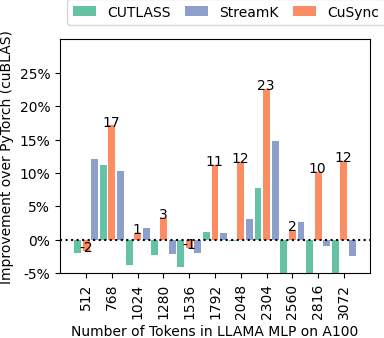
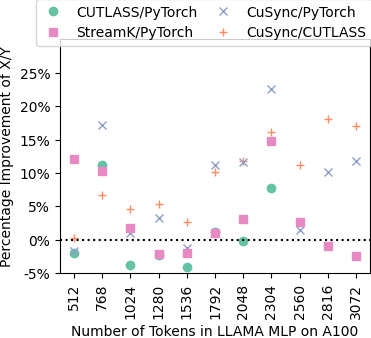
graph updates

diff --git a/src/ml-bench/plots/plotGPT.py b/src/ml-bench/plots/plotGPT.py
@@ -129,7 +129,7 @@ if __name__ == "__main__":
     # secFactor = 1e3 if (secs == "ms") else 1e6
     torchT = np.array(torchT)
     baseline = np.array(baseline)
-    ind = np.arange(len(baseline)) * 3
+    ind = np.arange(len(baseline))
     matmul1 = np.array(matmul1)
     matmul2 = np.array(matmul2)
     softmax = np.array(softmax)
@@ -142,11 +142,11 @@ if __name__ == "__main__":
     analyticalOverlapTimes = np.array(analyticalOverlapTimes)
 
     cutlassSpeedup = (torchT - baseline)/torchT*100
-    rowSpeedup = (torchT - rowOverlap)/torchT*100
-    tileSpeedup = (torchT - tileOverlap)/torchT*100
+    cusync = np.minimum(rowOverlap, tileOverlap)
+    cusyncSpeedup = (torchT - cusync)/torchT*100
+    cusyncOverCUTLASS = (baseline - cusync)/baseline*100 
     streamKSpeedup = (torchT - streamK)/torchT*100
     
-    print(streamKSpeedup)
     # for i in range(len(rowSpeedup)):
     #     if rowSpeedup[i] < -2:
     #         rowSpeedup[i]= -2
@@ -155,17 +155,17 @@ if __name__ == "__main__":
     #     if tileSpeedup[i] < 0:
     #         tileSpeedup[i] = 2
     
-    cusyncSpeedup = np.maximum(rowSpeedup, tileSpeedup)
-
+    
     # print(rowSpeedup)
     # print(tileSpeedup)
     # print(streamKSpeedup)
 
     # analyticalSpeedup = baseline/analyticalOverlapTimes
     fig, ax2 = plt.subplots(1,1,sharex=True)
-    p0 = ax2.bar(ind, cutlassSpeedup, color=colors[0])
-    p1 = ax2.bar(ind+1, cusyncSpeedup,color=colors[1])
-    p2 = ax2.bar(ind+2, streamKSpeedup,color=colors[2])
+    p0 = ax2.plot(ind, cutlassSpeedup, 'o', color=colors[0])
+    p1 = ax2.plot(ind, cusyncOverCUTLASS, '+', color=colors[1])
+    p2 = ax2.plot(ind, cusyncSpeedup, 'x', color=colors[2])
+    p3 = ax2.plot(ind, streamKSpeedup, 's',color=colors[3])
 
     # if attention_or_mlp == "attention":
     #     stridedTileSpeedup = (baseline - stridedTileOverlap)/baseline * 100
@@ -181,9 +181,9 @@ if __name__ == "__main__":
  
     # p3 = ax2.plot(list(range(0, len(data)//2)), analyticalSpeedup)
     
-    for bar1, d in zip(p1, cusyncSpeedup):
-        ax2.text(bar1.get_x()+bar1.get_width()/2-0.05, bar1.get_height()+0.5, "%.0f"%(round(d,0)), 
-        color = 'black', ha = 'center', va = 'center', rotation=0)
+    # for bar1, d in zip(p1, cusyncSpeedup):
+    #     ax2.text(bar1.get_x()+bar1.get_width()/2-0.05, bar1.get_height()+0.5, "%.0f"%(round(d,0)), 
+    #     color = 'black', ha = 'center', va = 'center', rotation=0)
 
     # for bar1, speedup in zip(p3, fastkronspeedup):
     #     ax2.text(bar1.get_x()+bar1.get_width()/2+0.04, bar1.get_height()+0.05, r"%.2f$\times$"%(1/speedup), color = 'black', ha = 'center', va = 'center', rotation=0, fontsize='large')
@@ -192,7 +192,7 @@ if __name__ == "__main__":
     #     plt.yticks([0.6+0.1*i for i in range(0, 7)])
     # else:
     # ax2.margins(0.02)
-    max_speedup = max([np.amax(cusyncSpeedup), np.amax(streamKSpeedup)])
+    max_speedup = max([np.amax(cusyncSpeedup), np.amax(streamKSpeedup), np.amax(cusyncOverCUTLASS)])
     max_speedup = int(((max_speedup+10-1)//10)*10)
     plt.ylim(-5, max_speedup)
     plt.yticks(ticks=[-5+5*i for i in range(0, max_speedup//5+1)],
@@ -206,16 +206,16 @@ if __name__ == "__main__":
     # plt.yticks(np.arange(0, 1.25, 0.25))
     if attention_or_mlp == "mlp":
         xt = list(m)
-        plt.xticks(ind+1, xt, rotation=90)
+        plt.xticks(ind, xt, rotation=90)
         
-        plt.ylabel('Improvement over PyTorch (cuBLAS)')
+        plt.ylabel('Percentage Improvement of X/Y')
         # ax2.get_yaxis().set_label_coords(-0.17,0.4)
         plt.xlabel("Number of Tokens in %s MLP on A100"%(model.upper()))
         # ax2.get_xaxis().set_label_coords(0.45,-0.4)
-        plt.legend((p0[0], p2[0], p1[0]),
-                   ('CUTLASS', 'StreamK', 'CuSync'),
-                   loc='upper left', bbox_to_anchor=(0.0, 1.20),
-                   ncol=4,columnspacing=1,handlelength=1.7)
+        plt.legend((p0[0], p3[0], p2[0], p1[0]),
+                   ('CUTLASS/PyTorch', 'StreamK/PyTorch', 'CuSync/PyTorch', 'CuSync/CUTLASS'),
+                   loc='upper left', bbox_to_anchor=(-0.1, 1.20),
+                   ncol=2,columnspacing=1,handlelength=1.7)
     else:
         ax2.get_yaxis().set_visible(False)
         ax2.get_xaxis().set_label_coords(0.45,-0.4)
